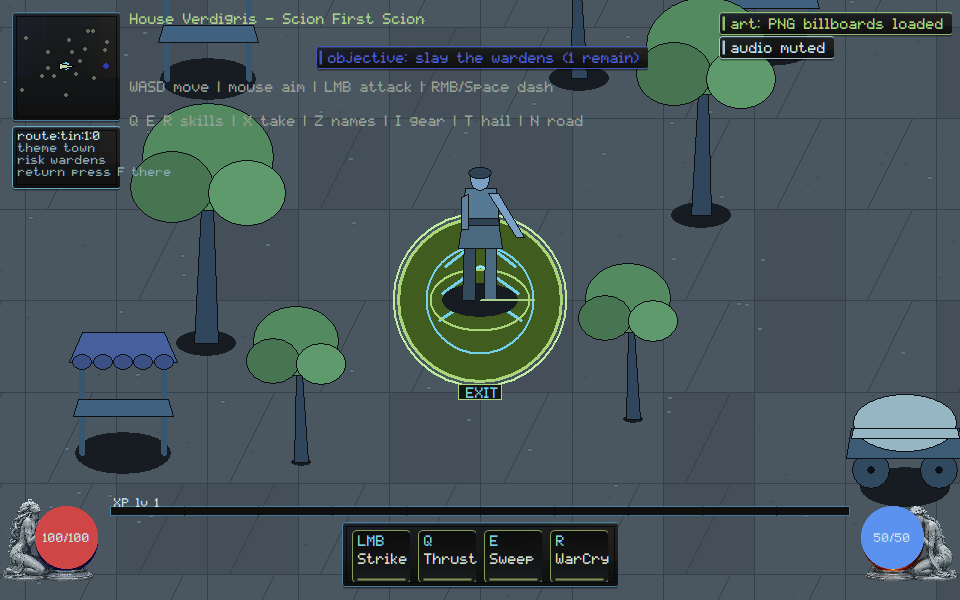
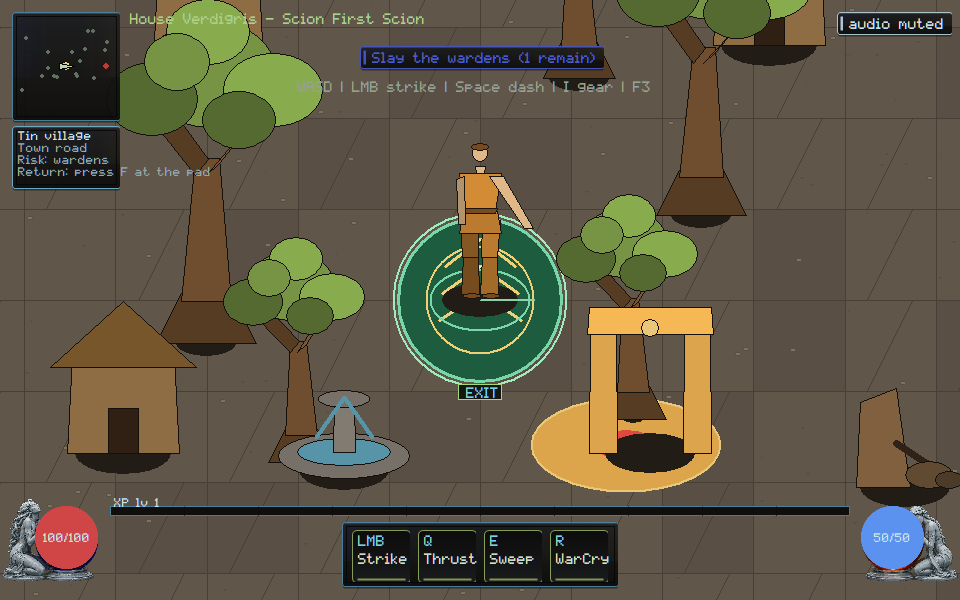
native: paint a moving bronze lantern pool on the village gate
A HUD token named the light while the spawn still matched bronze-stone. The pool now moves with light_from_tick and keeps red damage chroma, so material-light can certify the interaction.

diff --git a/native/client/main.cpp b/native/client/main.cpp
@@ -2569,6 +2569,55 @@ void draw_scenery_item(const BillboardAssets& assets, HDC dc, const Camera& came
   }
 }
 
+void paint_material_light_pool(ClientState& state, HDC dc, const RECT& bounds,
+                               render::List& rl) {
+  // VG-GPU-006: a moving bronze/stone lantern pool on the village gate.
+  // Intensity stays under the channel cap so a red damage chroma cannot wash
+  // out. HUD labels alone cannot certify the interaction.
+  double wx = 0.0;
+  double wy = 0.0;
+  bool found = false;
+  for (const auto& item : state.scenery) {
+    if (item.kind != SceneryKind::Gate) continue;
+    wx = static_cast<double>(item.position.x);
+    wy = static_cast<double>(item.position.y);
+    found = true;
+    break;
+  }
+  if (!found) return;
+  const int tick = static_cast<int>(state.world.tick) +
+                   static_cast<int>(state.breathe_phase * 40.0);
+  verdigris::gpu::Bindings bind{};
+  (void)verdigris::gpu::load_bindings(verdigris::gpu::Backend::Software,
+                                      verdigris::gpu::kBindingLayoutVersion,
+                                      &bind);
+  const verdigris::gpu::Light light = verdigris::gpu::light_from_tick(tick);
+  const std::uint32_t lit =
+      verdigris::gpu::shade_texel_lit(bind, light.x, light.y, light);
+  const ScreenPoint base = project(state.camera, bounds, wx, wy);
+  const int step = std::max(4, static_cast<int>(kTileUnits * 0.14 * base.scale));
+  const int ox = (light.x - 3) * step;
+  const int oy = (light.y - 3) * (step * 2 / 3);
+  const int rx = std::max(16, static_cast<int>(kTileUnits * 1.05 * base.scale));
+  const int ry = std::max(8, rx / 2);
+  const COLORREF bronze = verdigris::art::bronze_stone::gdi(lit);
+  const COLORREF rim = verdigris::art::bronze_stone::gdi_bronze_rim();
+  fill_ellipse(dc, base.x + ox, base.y + oy, rx, ry, bronze);
+  ring_ellipse(dc, base.x + ox, base.y + oy, rx, ry, rim, 2);
+  const COLORREF zone =
+      RGB(static_cast<int>((verdigris::gpu::kDamageZone >> 16) & 0xFF),
+          static_cast<int>((verdigris::gpu::kDamageZone >> 8) & 0xFF),
+          static_cast<int>(verdigris::gpu::kDamageZone & 0xFF));
+  fill_ellipse(dc, base.x + ox, base.y + oy, std::max(4, rx / 3),
+               std::max(3, ry / 3), zone);
+  rl.push_back({render::Op::Hud, static_cast<double>(base.x + ox),
+                static_cast<double>(base.y + oy), static_cast<double>(rx), 0,
+                "material-light:pool"});
+  rl.push_back({render::Op::Hud, static_cast<double>(base.x + ox),
+                static_cast<double>(base.y + oy), 0.0, tick,
+                "material-light:moving"});
+}
+
 void draw_ground_grid(HDC dc, const Camera& camera, const RECT& bounds) {
   const double range = static_cast<double>(verdigris::world_scale::kArenaHalfExtent);
   const double start_x = std::floor((camera.x - range) / kTileUnits) * kTileUnits;
@@ -6100,6 +6149,8 @@ void paint_scene(ClientState& state, HDC dc, const RECT& bounds) {
     }
   }
 
+  paint_material_light_pool(state, dc, bounds, rl);
+
   const WorldActor& player = world.player;
 
   // Collect every standing element, then draw back-to-front by the top-down
@@ -6893,7 +6944,6 @@ void paint_scene(ClientState& state, HDC dc, const RECT& bounds) {
       rl.push_back({render::Op::Hud, 0.0, 0.0, 0.0, 0,
                     verdigris::client::gov::extract_hud(end, carry)});
     }
-    rl.push_back({render::Op::Hud, 0.0, 0.0, 0.0, 0, "material-light:moving"});
     if (!state.audio_ambience_route.empty())
       rl.push_back({render::Op::Hud, 0.0, 0.0, 0.0, 0,
                     std::string("ambience:") + state.audio_ambience_route});
@@ -10908,6 +10958,13 @@ int scenario_material_light() {
   const std::uint32_t zone = sample.pixel(32, 32);
   scenario_check(!verdigris::gpu::damage_zone_concealed(zone),
                  "material-light: overbright additives cannot conceal damage zones");
+  scenario_check(verdigris::gpu::washed_light_fails_review(0x00FFFFFFu),
+                 "material-light: a white wash cannot certify the family");
+  scenario_check(!verdigris::gpu::washed_light_fails_review(pa) &&
+                     !verdigris::gpu::washed_light_fails_review(pb),
+                 "material-light: moving samples stay under the channel cap");
+  scenario_check(verdigris::gpu::hud_label_alone_fails_light_review(false),
+                 "material-light: a HUD token without a pool cannot certify");
   const std::string dir = art_wave_capture_dir();
   if (dir.empty()) {
     scenario_check(false, "material-light: capture root rejected before any write");
@@ -10920,12 +10977,19 @@ int scenario_material_light() {
   ClientState state;
   scenario_begin(state);
   scenario_follow_camera(state);
+  state.breathe_phase = 0.62;
   scenario_present(state);
   bool named = false;
-  for (const auto& item : state.render_list)
-    if (item.op == render::Op::Hud && item.label == "material-light:moving")
-      named = true;
+  bool pool = false;
+  for (const auto& item : state.render_list) {
+    if (item.op != render::Op::Hud) continue;
+    if (item.label == "material-light:moving") named = true;
+    if (item.label == "material-light:pool") pool = true;
+  }
   scenario_check(named, "material-light: live HUD names the moving light");
+  scenario_check(pool, "material-light: live scene paints a bronze light pool");
+  scenario_check(!verdigris::gpu::hud_label_alone_fails_light_review(pool),
+                 "material-light: the pool, not a HUD token, certifies the light");
   const std::string png = dir + "\\material-light-960x600.png";
   scenario_check(reference_present(state, 960, 600, png),
                  "material-light: live HUD capture written");

diff --git a/native/renderer/gpu/add-one-dynamic-material-light-interaction.hpp b/native/renderer/gpu/add-one-dynamic-material-light-interaction.hpp
@@ -65,6 +65,17 @@ inline std::uint32_t composite_damage_zone(std::uint32_t lit, bool in_zone) {
          static_cast<std::uint32_t>(b);
 }
 
+inline bool washed_light_fails_review(std::uint32_t pixel) {
+  const int r = static_cast<int>((pixel >> 16) & 0xFF);
+  const int g = static_cast<int>((pixel >> 8) & 0xFF);
+  const int b = static_cast<int>(pixel & 0xFF);
+  return r > kLitChannelCap || (r > 240 && g > 240 && b > 240);
+}
+
+inline bool hud_label_alone_fails_light_review(bool pool_painted) {
+  return !pool_painted;
+}
+
 inline bool damage_zone_concealed(std::uint32_t pixel) {
   const int r = static_cast<int>((pixel >> 16) & 0xFF);
   const int g = static_cast<int>((pixel >> 8) & 0xFF);

diff --git a/docs/execution/CROSSWALK.md b/docs/execution/CROSSWALK.md
@@ -50,7 +50,7 @@ Cursor evidence notes.
 | VG-GPU-003 | new | versioned software bindings (`shader-bindings`); no runtime .hlsl path |
 | VG-GPU-004 | new | session-connected packet present (`gpu-reference`); not a disconnected demo |
 | VG-GPU-005 | new | Y-sort + telegraph overlay (`grounding`); walls cannot erase warnings |
-| VG-GPU-006 | new | moving light on bronze/stone (`material-light`); cannot wash out damage |
+| VG-GPU-006 | new | moving bronze lantern pool on the village gate (`material-light`); HUD without a pool cannot certify; cannot wash out damage |
 | VG-GPU-007 | new | BMP readback + provenance (`gpu-capture`); PNG R/B swap cannot certify; packet logs are not pixels |
 | VG-GPU-008 | new | sample recreate/resize (`gpu-recover`); minimize/restore cannot leak |
 | VG-PERF-001/002/008 | extend | TASK-0152, 0207; 008 Owner Demo — do not duplicate |
@@ -174,8 +174,9 @@ Evidence `docs/execution/evidence/VG-GPU-004.json`.
 VG-GPU-005: scenery/actors sort by world Y; telegraphs paint after that pass.
 Scenario `grounding`. Evidence `docs/execution/evidence/VG-GPU-005.json`.
 VG-GPU-006: moving light on the cooked family; channel cap 220; damage chroma
-cannot be washed white. Scenario `material-light`. Evidence
-`docs/execution/evidence/VG-GPU-006.json`.
+cannot be washed white. Live scene paints a bronze lantern pool at the
+village gate; a HUD token without that pool cannot certify. Scenario
+`material-light`. Evidence `docs/execution/evidence/VG-GPU-006.json`.
 VG-GPU-007: BMP readback plus provenance sidecar. Packet snapshot text is not
 pixel evidence. A PNG whose red/blue channels are swapped versus the DIB
 cannot certify. Scenario `gpu-capture` / `vital-orbs`.

diff --git a/orchestration/CURSOR_KIMI_LANES.md b/orchestration/CURSOR_KIMI_LANES.md
@@ -475,6 +475,16 @@ Please move off that branch before taking a new native path.
 - **Stay off** `native/client/main.cpp` and `docs/execution/**`. SEC/CORE
   remain yours. GOV-002 still unstamped.
 
+## Cursor reply (2026-09-06, moving bronze lantern pool)
+
+- **Lease:** `main.cpp` still **ACTIVE**. `remote_session.cpp` stays
+  **RELEASED**. Do not re-spec TASK-0108 core/wire (`3b929637`).
+- **Landed this push:** VG-GPU-006 — village gate paints a moving bronze
+  lantern pool plus red damage chroma; HUD labels alone cannot certify.
+  `material-light` / `bronze-stone` recaptured and viewed. Not Owner Demo.
+- **Stay off** `native/client/main.cpp` and `docs/execution/**`. SEC/CORE
+  remain yours. GOV-002 still unstamped.
+
 ## Cursor reply (2026-09-06, bronze War Cry weave)
 
 - **Lease:** `main.cpp` still **ACTIVE**. `remote_session.cpp` stays

diff --git a/docs/rebuild/HANDOFF.md b/docs/rebuild/HANDOFF.md
@@ -1,5 +1,14 @@
 # Native reconstitution handoff
 
+## 2026-09-06 — moving bronze lantern pool (Cursor)
+
+- VG-GPU-006: the village gate now paints a bronze lantern ellipse that
+  moves with `light_from_tick`, plus a red damage disc that cannot wash
+  white. A HUD token without that pool cannot certify. `material-light`
+  and `bronze-stone` captures diverge.
+- Scenario `material-light` / `bronze-stone` PASS. Capture viewed. Not
+  Owner Demo. Not TASK-0108.
+
 ## 2026-09-06 — bronze War Cry weave family (Cursor)
 
 - VG-ART-006: cast motes, travel orbit, impact ticks, and cancel implode
